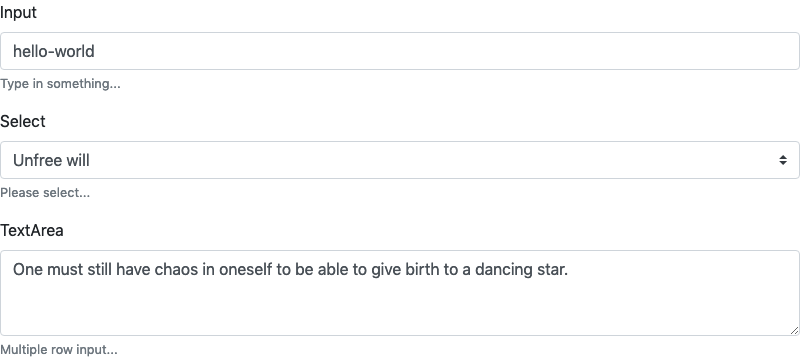
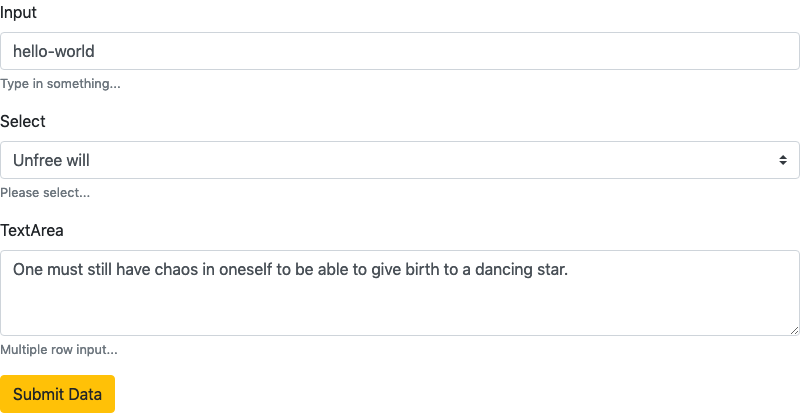
example w/ button + don't propagate onChange to form

diff --git a/example/ExampleForm.jsx b/example/ExampleForm.jsx
@@ -1,26 +1,41 @@
-import Form, { FormGroup, TextArea, Input, Select } from '../src'
+import Form, {
+  FormGroup, TextArea, Input, Select, SubmitButton, SubmitForm,
+} from '../src'
 
-const ExampleForm = ({ ...props }) => (<Form {...props}>
-  <FormGroup label="Input" help="Type in something...">
-    <Input name="input" value="hello-world" />
-  </FormGroup>
-  <FormGroup label="Select" help="Please select...">
-    <Select name="select" value="2" options={[
-      {
-        title: 'Free will',
-        value: '1',
-      },
-      {
-        title: 'Unfree will',
-        value: '2',
-      },
-    ]} />
-  </FormGroup>
-  <FormGroup label="TextArea" help="Multiple row input...">
-    <TextArea name="textarea">
-      One must still have chaos in oneself to be able to give birth to a dancing star.
-    </TextArea>
-  </FormGroup>
-</Form>)
+class ExampleForm extends SubmitForm {
+  render({ onChange, ...props }) {
+    const { formLoading, error, success } = this.state
+
+    return (<Form {...props} onSubmit={this.submit.bind(this)} onChange={values => {
+      this.reset()
+      if(onChange) onChange(values)
+    }}>
+      <FormGroup label="Input" help="Type in something...">
+        <Input name="input" value="hello-world" />
+      </FormGroup>
+      <FormGroup label="Select" help="Please select...">
+        <Select name="select" value="2" options={[
+          {
+            title: 'Free will',
+            value: '1',
+          },
+          {
+            title: 'Unfree will',
+            value: '2',
+          },
+        ]} />
+      </FormGroup>
+      <FormGroup label="TextArea" help="Multiple row input...">
+        <TextArea name="textarea">
+          One must still have chaos in oneself to be able to give birth to a dancing star.
+        </TextArea>
+      </FormGroup>
+      <SubmitButton loading={formLoading} type="warning"
+        confirmText="Submit Data" />
+      {error && `Error: ${error}`}
+      {success && `OK`}
+    </Form>)
+  }
+}
 
 export default ExampleForm

diff --git a/src/index.jsx b/src/index.jsx
@@ -33,7 +33,7 @@ export default class Form extends Component {
  * @param {function} [props.formRef] The function to call with the reference to the form HTML.
  * @param {function} [props.onSubmit] The function to call on form submit.
    */
-  render({ children, formRef, onSubmit, ...props }) {
+  render({ children, formRef, onSubmit, onChange, ...props }) {
     return <form ref={formRef} onSubmit={onSubmit} {...props}>
       {children}
     </form>
@@ -85,10 +85,10 @@ export { default as SubmitForm } from './SubmitForm'
  * @param {boolean} [props.outline=false] Display the outline style of the button via setting the `btn-outline-{type}` class. Default `false`.
  */
 export const SubmitButton = (props) => {
-  const { loading, loadingText, confirmText, className, type = 'primary', outline = false } = props
+  const { loading, confirmText, loadingText = confirmText, className, type = 'primary', outline = false } = props
   const classes = ['btn', `btn-${outline ? 'outline-' : ''}${type}`, className].filter(Boolean)
   return (<button type="submit" className={classes.join(' ')} disabled={loading}>
-    {loading && <span className="spinner-border spinner-border-sm mr-2" role="status" aria-hidden="true"/>}
+    {loading && <span className={`spinner-border spinner-border-sm${loadingText ? ' mr-2' : ''}`} role="status" aria-hidden="true"/>}
     {loading ? loadingText : confirmText}
   </button>)
 }

diff --git a/example/example.jsx b/example/example.jsx
@@ -1,9 +1,14 @@
 import core from '@idio/core'
-import render from 'preact-render-to-string'
+import render from '@depack/render'
 
 (async () => {
   const { url } = await core({
     frontend: { directory: ['example', 'src'] },
+    async api(ctx, next) {
+      if (ctx.path == '/form') {
+        ctx.body = { data: 'ok', error: null }
+      } else await next()
+    },
     serve(ctx) {
       ctx.body = '<!doctype html>' + render(<html>
         <head>
@@ -23,6 +28,6 @@ import render from 'preact-render-to-string'
         </body>
       </html>)
     },
-  })
+  }, { port: null })
   console.log('%s', url)
 })()

diff --git a/example/App.jsx b/example/App.jsx
@@ -15,7 +15,7 @@ class Main extends Component {
           <div className="col-sm-6">
             <ExampleForm onChange={(values) => {
               this.setState(values)
-            }}/>
+            }} path="/form" />
           </div>
           <div className="col-sm-6">
             <pre style="white-space: pre-wrap;">{

diff --git a/README.md b/README.md
@@ -53,30 +53,45 @@ __<a name="type-formprops">`FormProps`</a>__: Options for the Form component.
 | onSubmit | _function_ | The function to call on form submit.                                                |
 
 ```jsx
-import Form, { FormGroup, TextArea, Input, Select } from '@depack/form'
+import Form, {
+  FormGroup, TextArea, Input, Select, SubmitButton, SubmitForm,
+} from '@depack/form'
 
-const ExampleForm = ({ ...props }) => (<Form {...props}>
-  <FormGroup label="Input" help="Type in something...">
-    <Input name="input" value="hello-world" />
-  </FormGroup>
-  <FormGroup label="Select" help="Please select...">
-    <Select name="select" value="2" options={[
-      {
-        title: 'Free will',
-        value: '1',
-      },
-      {
-        title: 'Unfree will',
-        value: '2',
-      },
-    ]} />
-  </FormGroup>
-  <FormGroup label="TextArea" help="Multiple row input...">
-    <TextArea name="textarea">
-      One must still have chaos in oneself to be able to give birth to a dancing star.
-    </TextArea>
-  </FormGroup>
-</Form>)
+class ExampleForm extends SubmitForm {
+  render({ onChange, ...props }) {
+    const { formLoading, error, success } = this.state
+
+    return (<Form {...props} onSubmit={this.submit.bind(this)} onChange={values => {
+      this.reset()
+      if(onChange) onChange(values)
+    }}>
+      <FormGroup label="Input" help="Type in something...">
+        <Input name="input" value="hello-world" />
+      </FormGroup>
+      <FormGroup label="Select" help="Please select...">
+        <Select name="select" value="2" options={[
+          {
+            title: 'Free will',
+            value: '1',
+          },
+          {
+            title: 'Unfree will',
+            value: '2',
+          },
+        ]} />
+      </FormGroup>
+      <FormGroup label="TextArea" help="Multiple row input...">
+        <TextArea name="textarea">
+          One must still have chaos in oneself to be able to give birth to a dancing star.
+        </TextArea>
+      </FormGroup>
+      <SubmitButton loading={formLoading} type="warning"
+        confirmText="Submit Data" />
+      {error && `Error: ${error}`}
+      {success && `OK`}
+    </Form>)
+  }
+}
 
 export default ExampleForm
 ```
@@ -104,6 +119,7 @@ export default ExampleForm
       id="i20008" rows="3">One must still have chaos in oneself to be able to give birth to a dancing star.</textarea>
     <small id="hi20008" class="form-text text-muted">Multiple row input...</small>
   </div>
+  <button class="btn btn-warning" type="submit">Submit Data</button>
 </form>
 ```
 
